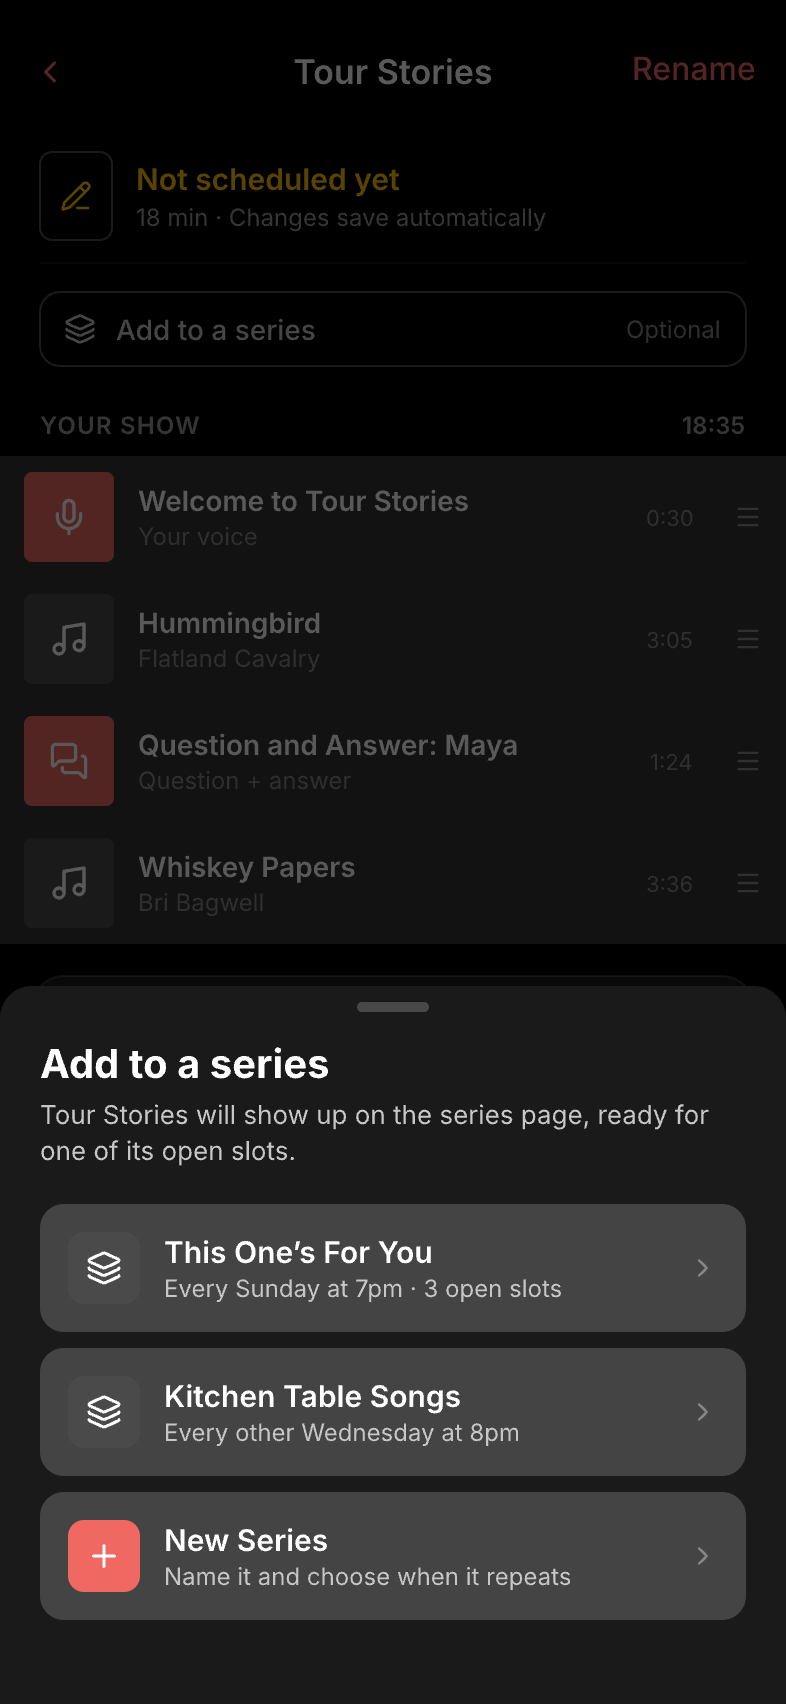
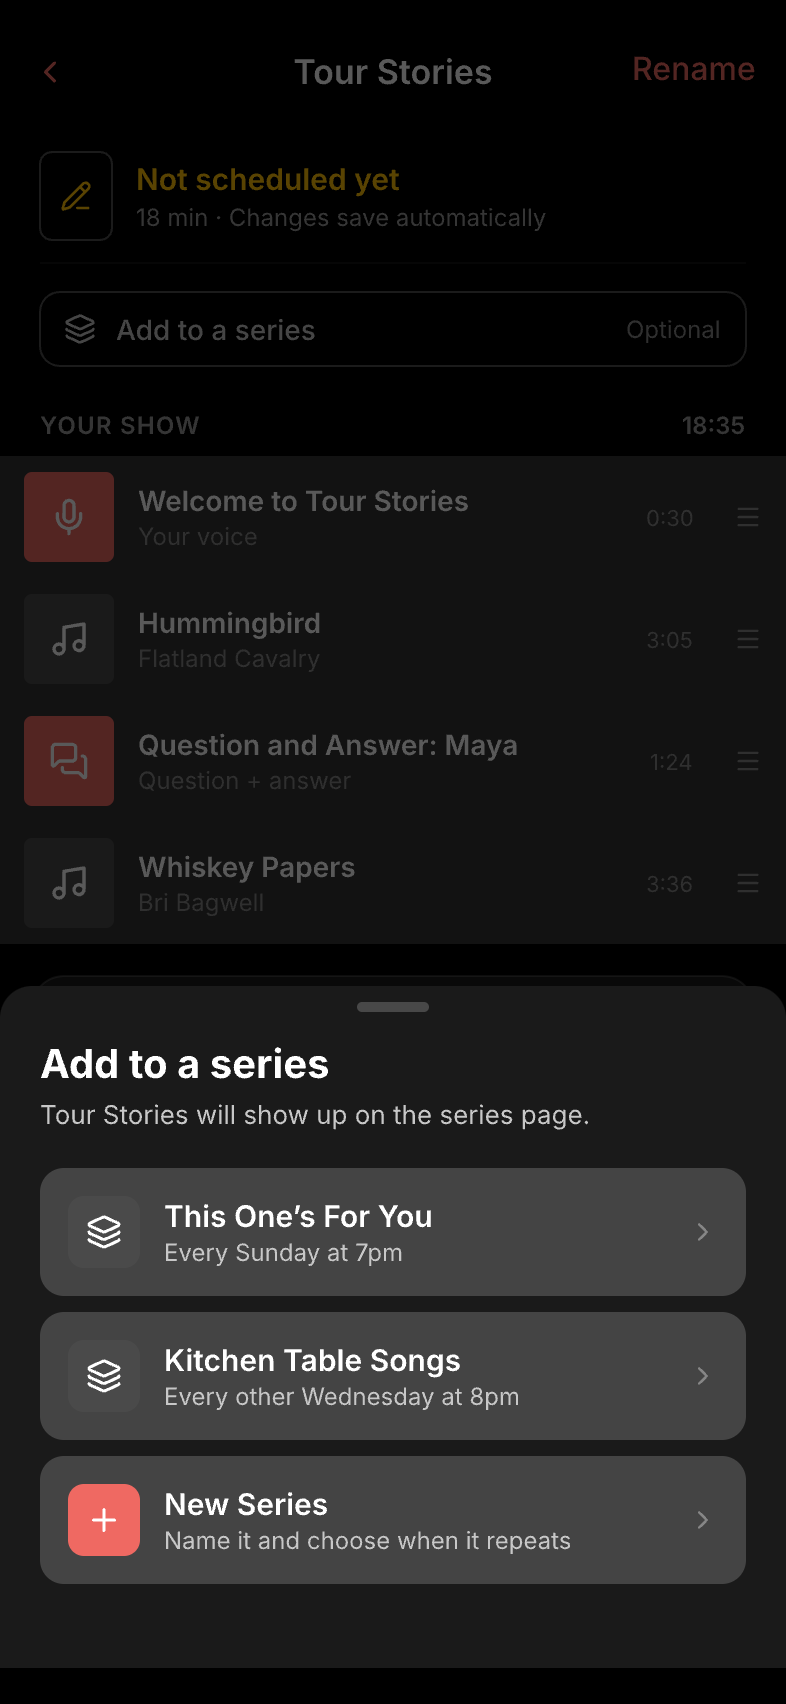
design: weekly-only schedules, day required to save a series, picker drops slot counts
Second CodeRabbit review decisions (spec approval log entry 16): the server
refuses non-weekly repeating schedules, so the app no longer needs to format
every-other-week or monthly rules; New/Edit Series needs a day picked for
Every week; the Series picker no longer promises open-slot counts. Exports
regenerated; button layers renamed to match their labels.

Changed region(s): [[0.0, 0.6532, 1.0, 1.0]]

diff --git a/design/features/recorded-shows/exports/recorded-shows.css.html b/design/features/recorded-shows/exports/recorded-shows.css.html
@@ -1366,7 +1366,7 @@
           </div>
         </div>
         <div
-          data-pencil-name="Record a New Show button"
+          data-pencil-name="Create a New Series button"
           style="align-items: center; background-color: #EF6962; border-radius: 12px; box-sizing: border-box; display: flex; flex-direction: row; gap: 8px; height: 50px; justify-content: center; left: 16px; position: absolute; top: 694px; width: 361px; z-index: 3"
         >
           <svg
@@ -2646,7 +2646,7 @@
           </div>
         </div>
         <div
-          data-pencil-name="Record a New Show button"
+          data-pencil-name="Add a Show button"
           style="align-items: center; background-color: #EF6962; border-radius: 12px; box-sizing: border-box; display: flex; flex-direction: row; gap: 8px; height: 50px; justify-content: center; left: 16px; position: absolute; top: 694px; width: 361px; z-index: 3"
         >
           <svg
@@ -3277,7 +3277,7 @@
           </div>
         </div>
         <div
-          data-pencil-name="Record a New Show button"
+          data-pencil-name="Add a Show button"
           style="align-items: center; background-color: #EF6962; border-radius: 12px; box-sizing: border-box; display: flex; flex-direction: row; gap: 8px; height: 50px; justify-content: center; left: 16px; position: absolute; top: 694px; width: 361px; z-index: 3"
         >
           <svg
@@ -4257,7 +4257,7 @@
           </div>
         </div>
         <div
-          data-pencil-name="Record a New Show button"
+          data-pencil-name="Add a Show button"
           style="align-items: center; background-color: #EF6962; border-radius: 12px; box-sizing: border-box; display: flex; flex-direction: row; gap: 8px; height: 50px; justify-content: center; left: 16px; position: absolute; top: 694px; width: 361px; z-index: 3"
         >
           <svg
@@ -10953,7 +10953,7 @@
               data-pencil-name="Sheet Subtitle"
               style="box-sizing: border-box; color: #C7C7C7; flex: 1 1 0; font-family: Inter, system-ui, sans-serif; font-size: 13px; font-style: normal; font-weight: 400; letter-spacing: 0px; line-height: 18px; text-align: left"
             >
-              Tour Stories will show up on the series page, ready for one of its open slots.
+              Tour Stories will show up on the series page.
             </div>
           </div>
           <div
@@ -10993,7 +10993,7 @@
                 data-pencil-name="Subtitle"
                 style="box-sizing: border-box; color: #C7C7C7; font-family: Inter, system-ui, sans-serif; font-size: 12px; font-style: normal; font-weight: 400; letter-spacing: 0px; line-height: normal; text-align: left; white-space: nowrap"
               >
-                Every Sunday at 7pm · 3 open slots
+                Every Sunday at 7pm
               </div>
             </div>
             <svg
@@ -12632,7 +12632,7 @@
           </div>
         </div>
         <div
-          data-pencil-name="Record a New Show button"
+          data-pencil-name="Create a New Series button"
           style="align-items: center; background-color: #EF6962; border-radius: 12px; box-sizing: border-box; display: flex; flex-direction: row; gap: 8px; height: 50px; justify-content: center; left: 16px; position: absolute; top: 694px; width: 361px; z-index: 3"
         >
           <svg

diff --git a/design/features/recorded-shows/exports/recorded-shows.tailwind.html b/design/features/recorded-shows/exports/recorded-shows.tailwind.html
@@ -1369,7 +1369,7 @@
           </div>
         </div>
         <div
-          data-pencil-name="Record a New Show button"
+          data-pencil-name="Create a New Series button"
           class="box-border w-[361px] h-[50px] absolute left-[16px] top-[694px] flex flex-row gap-[8px] justify-center items-center bg-[#EF6962] rounded-[12px] [z-index:3]"
         >
           <svg
@@ -2649,7 +2649,7 @@
           </div>
         </div>
         <div
-          data-pencil-name="Record a New Show button"
+          data-pencil-name="Add a Show button"
           class="box-border w-[361px] h-[50px] absolute left-[16px] top-[694px] flex flex-row gap-[8px] justify-center items-center bg-[#EF6962] rounded-[12px] [z-index:3]"
         >
           <svg
@@ -3280,7 +3280,7 @@
           </div>
         </div>
         <div
-          data-pencil-name="Record a New Show button"
+          data-pencil-name="Add a Show button"
           class="box-border w-[361px] h-[50px] absolute left-[16px] top-[694px] flex flex-row gap-[8px] justify-center items-center bg-[#EF6962] rounded-[12px] [z-index:3]"
         >
           <svg
@@ -4260,7 +4260,7 @@
           </div>
         </div>
         <div
-          data-pencil-name="Record a New Show button"
+          data-pencil-name="Add a Show button"
           class="box-border w-[361px] h-[50px] absolute left-[16px] top-[694px] flex flex-row gap-[8px] justify-center items-center bg-[#EF6962] rounded-[12px] [z-index:3]"
         >
           <svg
@@ -10956,7 +10956,7 @@
               data-pencil-name="Sheet Subtitle"
               class="text-[13px]/[18px] box-border [flex:1_1_0] text-[#C7C7C7] font-[Inter,system-ui,sans-serif] font-normal text-left"
             >
-              Tour Stories will show up on the series page, ready for one of its open slots.
+              Tour Stories will show up on the series page.
             </div>
           </div>
           <div
@@ -10996,7 +10996,7 @@
                 data-pencil-name="Subtitle"
                 class="text-[12px]/[normal] box-border text-[#C7C7C7] font-[Inter,system-ui,sans-serif] font-normal text-left [white-space:nowrap]"
               >
-                Every Sunday at 7pm · 3 open slots
+                Every Sunday at 7pm
               </div>
             </div>
             <svg
@@ -12635,7 +12635,7 @@
           </div>
         </div>
         <div
-          data-pencil-name="Record a New Show button"
+          data-pencil-name="Create a New Series button"
           class="box-border w-[361px] h-[50px] absolute left-[16px] top-[694px] flex flex-row gap-[8px] justify-center items-center bg-[#EF6962] rounded-[12px] [z-index:3]"
         >
           <svg

diff --git a/design/features/recorded-shows/spec.md b/design/features/recorded-shows/spec.md
@@ -76,7 +76,7 @@ Let a station curator make a **recorded show** in the iOS app and schedule it, a
 ### Builder-check calls (Claude's calls, 2026-11-06 — user may override)
 
 - **Existing web-made data:** iOS lists every Series and Show of the station, whoever made it. A Show whose airing is inside the lock window or on air is locked; aired Shows are not listed. Shows with more than one airing (web-made) are listed by their next airing and are read-only in iOS v1.
-- **Repeating schedule richness:** every week only, on one or more days, at one time, in the **station's** time zone (not the device's; Central for every station in v1). A web-made rule the app can't edit (e.g. every other week) shows read-only and offers no slots. A slot is open when no Show on that station airs at that time. The Schedule step offers the next 8 open slots. Moving/unscheduling a Show reopens its slot.
+- **Repeating schedule richness:** every week only, on one or more days, at one time, in the **station's** time zone (not the device's; Central for every station in v1). The server accepts only this weekly form (the website editor already writes nothing else, and production holds no other rules as of 2026-11-11). If the app ever reads a rule it can't parse, it shows "Custom schedule" read-only and offers no slots. A slot is open when no Show on that station airs at that time. The Schedule step offers the next 8 open slots. Moving/unscheduling a Show reopens its slot.
 - **Listener-facing title:** a standalone Show's title is its own (the hidden series mirrors it). Scheduled Shows appear on "Radio Shows" before they air, as web-made ones do today.
 - **"On now" push:** names the station and the Show, doesn't say "live" or "recorded", and is sent once per airing (the server has no notification cooldown to follow).
 - **What can be scheduled:** at least one piece of audio. No minimum or maximum length, and no "doesn't fit the slot" warning in v1.
@@ -166,10 +166,12 @@ Backend (each a server test):
 - Writes to an Episode with Airings on two stations need edit rights on both.
 - The "on now" push goes once for a Show that plays across several ticks, never for an unscheduled one, and follows a moved one.
 - A recorded Show's station is LIVE from its first to its last spin, and not before.
+- Creating or updating a Series with an `rrule` that isn't the weekly form (e.g. `INTERVAL=2`, `MONTHLY`) is refused with 400.
 
 iOS (each a model test):
 - Open slots: weekly on several days, across both DST transitions, skip taken times, stop at 8.
-- An unsupported (legacy) rule shows read-only, offers no slots, and a rename sends no `rrule`.
+- A rule the app can't parse shows "Custom schedule" read-only, offers no slots, and a rename sends no `rrule`.
+- New/Edit Series: Save stays disabled while Name is empty or while Every week has no day selected.
 - Builder state follows `airtime − airingEditLockMS`; a refusal with `AIRING_EDIT_LOCKED` switches to Locked.
 - Saves (builder and its sheets) are serialized; a failed save refetches.
 - Add a show sheet: a failed Series step after a successful schedule shows an alert and leaves the Show scheduled.
@@ -249,3 +251,4 @@ Every disposition was checked against `origin/develop` (backend `fd456a53`, iOS 
 13. 2026-11-06 — Data layer approved ("all approved"): `models.md` and `endpoints.md` as drafted from the Codex architect consult against `15e655d4c`, trimmed by Claude. Calls approved with it: every station's time zone defaults to Central (admins change it); overlaps judged on the picked time (drift of up to one song is absorbed by the scheduler's existing push-back); a giveaway blocks its announcement and its show, not the contest window; one "on now" push per airing (rare duplicate on crash; no cooldown exists); every-other-week starts with the next occurrence after saving, and older apps show no schedule line for it; locked means read-only except Unschedule (rename and series changes included); website moves/renames inside 6 hours and overlapping schedules are now refused with a message.
 14. 2026-11-06 — Implementation plan approved, then the Phase 7 simplicity review. User accepted all five reversals ("1. yes drop it 2. yes 3. yes 4. yes 5. yes"): R1 every week only; R2 Add a show makes two requests (schedule/move, then join the Series); R3 one fixed time zone (Central), no station column; R4 locked Shows can still be renamed and moved between Series; R5 no Past placeholder, Airing soon + On air merged into Locked, Schedule + Pick a time merged into one Schedule sheet. Claude's non-reversal simplifications (S1–S9) applied with them. Supersedes entry 13's "every station's time zone defaults to Central (admins change it)", "every-other-week…", and "locked means read-only except Unschedule (rename and series changes included)", and entries 11–12's Past link, Airing soon/On air states and Pick a time sheet.
 15. 2026-11-10 — Mockups updated to match entry 14 (no new design decisions): Past link and frame removed; Every-other-week option removed from Edit Series and New Series; Airing soon became the single Locked state (Rename and Series "Change" kept, "Shows lock 6 hours before they air" banner); Series-slots, locks-right-away and overlap frames are now one Schedule sheet (Cancel / Schedule bar, open slots when in a Series, then the date/time picker). Final PNG, HTML, design-token and per-screen JSON exports regenerated.
+16. 2026-11-11 — Second CodeRabbit review decisions: (1) a create whose response is lost may leave an extra draft — accepted, not handled in v1; (2) repeating schedules are weekly-only everywhere: the server refuses any other `rrule` on Series create/update, the website drops its non-weekly display text, and iOS shows an unparseable rule as "Custom schedule" read-only (supersedes the "legacy rule" handling in entries 13–14); (3) New/Edit Series Save is disabled while Every week has no day selected; (4) the read-only rule state on Edit Series has no separate mockup. Mockups: open-slot wording removed from the Series picker; button layers renamed.

diff --git a/design/features/recorded-shows/implementation-plan.md b/design/features/recorded-shows/implementation-plan.md
@@ -49,7 +49,7 @@ B1 backend: scheduling contract ──┬──> B2 backend: on-air signals (LIV
 
 1. **A curator whose phone is in a different time zone from the station.** Slots, "airs at about" and schedule text must use station time, and the label says so. → I1.3 (`openSlotsUseStationTimeNotDeviceTime`) and I2.2 (`scheduleSheetLabelsUseStationTimeZone`).
 2. **Quick double taps on a slow network** (Schedule twice, two songs added fast). They must not create two Airings, two drafts, or out-of-order content. → I2.1 (`twoQuickChangesSaveInOrderOnce`), I2.2 (`scheduleButtonDisabledWhileSaving`).
-3. **Web-made data the app didn't write**: every-other-week, `DAILY`/`MONTHLY` rules, Shows with two Airings, request-only segments with no audio. These must decode and list without crashing, and open read-only. → I1.1 (`decodesRequestOnlySegmentWithoutAudio`), I1.3 (`everyOtherWeekRuleIsNotEditable`), I2.4 (`multiAiringShowOpensReadOnly`).
+3. **Web-made data the app didn't write**: Shows with two Airings, request-only segments with no audio, and (defensively) a rule that isn't the weekly form. These must decode and list without crashing, and open read-only. → I1.1 (`decodesRequestOnlySegmentWithoutAudio`), I1.3 (`everyOtherWeekRuleIsNotEditable`), I2.3 (`editSeriesWithUnparseableRuleShowsCustomScheduleAndSendsNoRruleOnRename`), I2.4 (`multiAiringShowOpensReadOnly`).
 4. **Removing the last piece of audio from a scheduled Show** must show the server's "unschedule first" message and keep the row. → B1.4 (`refusesRemovingLastAudioFromScheduledEpisode`), I2.1 (`removingLastAudioOfScheduledShowShowsServerMessage`).
 5. **Add a show: the schedule step succeeds but joining the Series fails.** The curator must be told, and the Show must stay scheduled (not silently half-done). → I2.4 (`seriesStepFailureAfterScheduleShowsAlertAndKeepsAiring`).
 
@@ -192,11 +192,12 @@ Run from `server/`. To run one suite: `npm test -- --grep "<describe title>"`. R
   - `PUT episode showId on a locked episode succeeds`.
   - `POST shows saves rrule`.
   - `POST shows with rrule and isOneTime is 400`.
+  - `POST and PUT shows with a non-weekly rrule are 400` (`INTERVAL=2`, `FREQ=MONTHLY`, `FREQ=DAILY`, `COUNT=3`, no `BYDAY`).
   - `PUT shows rrule null clears it`.
   - `PUT shows rrule longer than 255 is 400`.
   - `PUT shows rename of a one-time wrapper whose episode is locked succeeds`.
 - [ ] **Step 2:** Run `npm test -- --grep "episode|show"`. Expect FAIL.
-- [ ] **Step 3:** Implement per endpoints.md "PUT /v1/episodes/:episodeId", "POST /v1/shows" and "PUT /v1/shows/:showId". Lock the source and target Shows by id (`lockShowForUpdate`), then re-read membership.
+- [ ] **Step 3:** Implement per endpoints.md "PUT /v1/episodes/:episodeId", "POST /v1/shows" and "PUT /v1/shows/:showId". Lock the source and target Shows by id (`lockShowForUpdate`), then re-read membership. The weekly-only `rrule` check may already exist from the standalone server PR (spec.md approval log entry 16); reuse it for create rather than adding a second validator.
 - [ ] **Step 4:** Run the full `npm test`, then `npm run lint` and `npm run docs:check`. Expect all green. Add the `CHANGELOG.md` Changes entry (website moves inside 6 hours and overlapping times are refused with a message). No migration in B1.
 - [ ] **Step 5:** Commit `feat: move shows between series and save series schedules`.
 
@@ -348,7 +349,7 @@ Test command for every iOS task: `xcodebuild test -project PlayolaRadio.xcodepro
   - `openSlotsSkipSpringForwardGap` (2:30 AM on 2027-03-14 Chicago).
   - `openSlotsUseEarlierInstantOnFallBack` (1:30 AM on 2026-11-01 Chicago).
   - `openSlotsUseStationTimeNotDeviceTime` (device `Asia/Tokyo`, station `America/Chicago`).
-  - `legacyScheduleTextUsesStationTimeNotDeviceTime` (device `Asia/Tokyo`, station `America/Chicago`).
+  - `scheduleTextUsesStationTimeNotDeviceTime` (device `Asia/Tokyo`, station `America/Chicago`).
 - [ ] **Step 2:** Run. Expect FAIL.
 - [ ] **Step 3:** Implement with a `Calendar(identifier: .gregorian)` whose `timeZone` is the station's. No rrule library.
 - [ ] **Step 4:** Run. Expect PASS. Run the full suite and `make lint`. Open the I1 PR.
@@ -401,7 +402,7 @@ Test command for every iOS task: `xcodebuild test -project PlayolaRadio.xcodepro
 
 - [ ] **Step 1: Write failing tests:**
   - `listsNextEightOpenSlotsForWeeklySeries`.
-  - `noSlotsForStandaloneShowOrLegacyRule`.
+  - `noSlotsForStandaloneShowOrUnparseableRule`.
   - `tappingSlotFillsPickerWithoutScheduling`.
   - `showsLocksRightAwayInsideLock`.
   - `refusalShowsMessageAndDisablesScheduleUntilTimeChanges`.
@@ -430,10 +431,11 @@ Test command for every iOS task: `xcodebuild test -project PlayolaRadio.xcodepro
   - `pickingSeriesSendsJoin`.
   - `removeFromSeriesSendsMakeStandalone`.
   - `newSeriesFromPickerCreatesThenJoins`.
-  - `editSeriesWithLegacyRuleShowsTextAndSendsNoRruleOnRename`.
+  - `editSeriesWithUnparseableRuleShowsCustomScheduleAndSendsNoRruleOnRename`.
   - `saveEveryWeekSendsWeeklyRule`.
   - `noScheduleClearsRrule`.
   - `saveDisabledWithoutName`.
+  - `saveDisabledForEveryWeekWithNoDay`.
 - [ ] **Step 2:** Run. Expect FAIL.
 - [ ] **Step 3:** Implement per screens.md "Series picker sheet" and "Series details sheet".
 - [ ] **Step 4:** Run. Expect PASS.

diff --git a/design/features/recorded-shows/screens.md b/design/features/recorded-shows/screens.md
@@ -143,15 +143,15 @@ Listed: the station's drafts that have at least one piece of audio, and schedule
   - Curator Series list → "Create a New Series" (New Series)
   - Series picker sheet → "New Series" (New Series; on Save the Show joins it)
 - **Navigates to:**
-  - Save → saves and dismisses (disabled while Name is empty)
+  - Save → saves and dismisses (disabled while Name is empty, or while Every week has no day selected)
   - Cancel or swipe down → dismiss without saving
 
-Repeats: Every week / No schedule. A Series with a rule the app can't edit (made on the website, e.g. every other week) shows that rule's text read-only. Days and Time are hidden when Repeats is "No schedule". Times are in the station's time zone.
+Repeats: Every week / No schedule. Schedules are weekly only (the server refuses anything else). If a Series' rule can't be parsed, the sheet shows "Custom schedule" read-only in place of Repeats, Days and Time; this state has no separate mockup. Days and Time are hidden when Repeats is "No schedule". Times are in the station's time zone.
 
 | State | When it shows | Node | Mockup |
 |---|---|---|---|
 | Edit Series | Editing an existing Series | `BRLnN` | ![Series details sheet — edit series](exports/series-details-sheet--edit-series.png) |
-| New Series | Creating a Series; Save disabled until it has a name | `YDx8T` | ![Series details sheet — new series](exports/series-details-sheet--new-series.png) |
+| New Series | Creating a Series; Save disabled until it has a name and, for Every week, at least one day | `YDx8T` | ![Series details sheet — new series](exports/series-details-sheet--new-series.png) |
 
 ## Individual Shows
 - **Status:** New

diff --git a/design/features/recorded-shows/models.md b/design/features/recorded-shows/models.md
@@ -31,8 +31,8 @@ UX "Show" = `Episode`; UX "Series" = `Show` (see spec Vocabulary).
 **What iOS writes** (wall-clock values are in `Station.timezone`): every week only, one line, the form the shipped listener formatter already reads:
 `FREQ=WEEKLY;BYDAY=TU,TH;BYHOUR=20;BYMINUTE=0` — one or more days, exactly one time; no `INTERVAL`, `COUNT`, `UNTIL`, or exclusions.
 
-- **Server role:** stores and length-checks the string; it never expands it. Slots are computed on iOS (see endpoints.md, "Open slots").
-- **Legacy rules:** existing web-written rules (including `INTERVAL=2`, `DAILY`, `MONTHLY`) are left untouched. iOS shows a rule it can't edit as its formatted text, read-only, and offers slots only for plain weekly rules; saving a rename sends no `rrule`.
+- **Server role:** stores the string and refuses (400) anything that isn't exactly this weekly form; it never expands it. Slots are computed on iOS (see endpoints.md, "Open slots").
+- **No legacy rules:** production holds only weekly rules (checked 2026-11-11) and the website editor writes only this form, so no data migration is needed. iOS still parses defensively: a rule it can't parse shows as "Custom schedule", read-only, with no slots; saving a rename sends no `rrule`.
 - **Indexes / constraints:** none. **Associations:** unchanged. **Enums:** none.
 - **Migration:** none.
 - **Deploy compatibility:** every rule iOS writes reads correctly in every shipped iOS version and in the admin web editor (`rrule.js`).

diff --git a/design/features/recorded-shows/endpoints.md b/design/features/recorded-shows/endpoints.md
@@ -88,7 +88,7 @@ The message names what it overlaps, is formatted in `Station.timezone`, and incl
 
   | Status | When |
   |---|---|
-  | 400 | `rrule` longer than 255, or `rrule` with `isOneTime: true` |
+  | 400 | `rrule` longer than 255, not the weekly form in models.md, or sent with `isOneTime: true` |
 
 - **Compatibility:** additive; existing callers send no `rrule`.
 - **Consumers:** Series details sheet — New Series (also from Series picker → New Series). Standalone Show creation (`isOneTime: true`) is unchanged.
@@ -104,7 +104,7 @@ The message names what it overlaps, is formatted in `Station.timezone`, and incl
 
   | Status | When |
   |---|---|
-  | 400 | `rrule` longer than 255, or `rrule` on a one-time wrapper |
+  | 400 | `rrule` longer than 255, not the weekly form in models.md, or sent on a one-time wrapper |
 
 - **Behavior:** renames and schedule changes are allowed at any time; a schedule change only changes which slots are offered.
 - **Compatibility:** additive.
